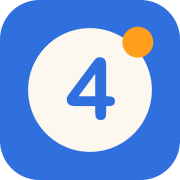
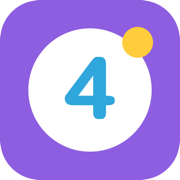
サイト全体の色ではやる気が出ないと子どもに言われたため、水色・むらさき・黄色をベースに、明るさと鮮やかさをそろえた配色に変えた
- 文のもんだいなどのメインのボタンはむらさき、たんごは水色、にがてノート・ホームへは黄色（字はこい茶色）
- 背景は水色からラベンダー、うすい黄色へのグラデーション
- 正解は緑のまま、まちがいはコーラルピンクにした
- アイコン（favicon・PWA・apple-touch-icon）とテーマカラーも同じ配色にした

diff --git a/src/index.css b/src/index.css
@@ -1,16 +1,24 @@
 :root {
-  --bg: #fdf8ef;
+  /* 水色・むらさき・黄色を同じくらいの明るさと鮮やかさにそろえる */
+  --bg: #f4f1ff;
   --card: #ffffff;
-  --text: #2b2b33;
-  --muted: #6b6b78;
-  --primary: #2f6fde;
-  --primary-dark: #1f55b3;
-  --secondary: #ff9f1c;
-  --good: #1f9d55;
-  --good-bg: #e6f6ec;
-  --bad: #d64545;
-  --bad-bg: #fdecec;
-  --border: #e6ded0;
+  --text: #2e2a45;
+  --muted: #6d6889;
+  --primary: #8e5ee0;
+  --primary-dark: #7246c4;
+  --primary-light: #efe8fd;
+  --sky: #2fa6dc;
+  --sky-dark: #1c88bb;
+  --sky-light: #e3f4fc;
+  --yellow: #ffcd3c;
+  --yellow-dark: #e0a800;
+  --yellow-text: #5a4300;
+  --secondary: var(--yellow);
+  --good: #1f9d6b;
+  --good-bg: #e2f6ee;
+  --bad: #e0567a;
+  --bad-bg: #ffedf2;
+  --border: #ddd6f3;
   --radius: 18px;
 
   font-family: 'Hiragino Maru Gothic ProN', 'BIZ UDPGothic', 'Meiryo', system-ui, sans-serif;
@@ -27,7 +35,8 @@
 body {
   margin: 0;
   min-height: 100vh;
-  background: var(--bg);
+  background: linear-gradient(160deg, #e6f5ff 0%, #f1ecff 50%, #fff7d9 100%) fixed;
+  background-color: var(--bg);
 }
 
 button {
@@ -59,25 +68,30 @@ button:disabled {
   font-size: 1.3rem;
   font-weight: bold;
   color: #fff;
-  box-shadow: 0 5px 0 rgba(0, 0, 0, 0.15);
+  box-shadow: 0 5px 0 var(--shadow, rgba(0, 0, 0, 0.15));
   transition: transform 0.08s, box-shadow 0.08s;
 }
 
 .big-button:active:not(:disabled) {
   transform: translateY(4px);
-  box-shadow: 0 1px 0 rgba(0, 0, 0, 0.15);
+  box-shadow: 0 1px 0 var(--shadow, rgba(0, 0, 0, 0.15));
 }
 
 .big-button.primary {
+  --shadow: var(--primary-dark);
   background: var(--primary);
 }
 
+/* 黄色は白い字だと読みにくいので、こい茶色の字にする */
 .big-button.secondary {
+  --shadow: var(--yellow-dark);
   background: var(--secondary);
+  color: var(--yellow-text);
 }
 
 .big-button:disabled {
-  background: #c9c4ba;
+  background: #cfcae0;
+  color: #fff;
   box-shadow: none;
 }
 
@@ -135,6 +149,7 @@ button:disabled {
 .accent {
   color: var(--primary);
   font-size: 1.3em;
+  text-shadow: 3px 3px 0 var(--yellow);
 }
 
 .stats {
@@ -155,7 +170,7 @@ button:disabled {
 .stat-value {
   font-size: 2rem;
   font-weight: bold;
-  color: var(--primary);
+  color: var(--sky-dark);
   font-variant-numeric: tabular-nums;
 }
 
@@ -213,7 +228,7 @@ button:disabled {
 
 .progress-fill {
   height: 100%;
-  background: var(--good);
+  background: linear-gradient(90deg, var(--sky), var(--primary));
   transition: width 0.3s;
 }
 
@@ -292,7 +307,8 @@ button:disabled {
 }
 
 .choice:hover:not(:disabled) {
-  border-color: var(--primary);
+  border-color: var(--sky);
+  background: var(--sky-light);
 }
 
 .choice:active:not(:disabled) {
@@ -307,8 +323,8 @@ button:disabled {
   height: 32px;
   flex-shrink: 0;
   border-radius: 50%;
-  background: var(--bg);
-  color: var(--muted);
+  background: var(--primary-light);
+  color: var(--primary);
   font-size: 1rem;
   font-weight: bold;
 }
@@ -454,8 +470,8 @@ button:disabled {
   font-size: 0.75rem;
   padding: 2px 10px;
   border-radius: 999px;
-  background: var(--bg);
-  color: var(--muted);
+  background: var(--sky-light);
+  color: var(--sky-dark);
 }
 
 .review-answer {
@@ -512,7 +528,8 @@ button:disabled {
 }
 
 .big-button.words {
-  background: var(--good);
+  --shadow: var(--sky-dark);
+  background: var(--sky);
 }
 
 .word-prompt {
@@ -541,7 +558,7 @@ button:disabled {
 
 .word-pair {
   font-size: 1.3rem;
-  color: var(--good);
+  color: var(--primary);
   font-weight: bold;
 }
 
@@ -614,7 +631,7 @@ button:disabled {
   gap: 8px;
   margin: 14px 0;
   padding: 14px 16px;
-  background: var(--bg);
+  background: var(--primary-light);
   border-radius: 12px;
 }
 

diff --git a/vite.config.ts b/vite.config.ts
@@ -16,8 +16,8 @@ export default defineConfig({
         short_name: 'えいけん4きゅう',
         description: '英検4級合格をめざす小学生向けの練習アプリ',
         lang: 'ja',
-        theme_color: '#2f6fde',
-        background_color: '#fdf8ef',
+        theme_color: '#8e5ee0',
+        background_color: '#f4f1ff',
         display: 'standalone',
         icons: [
           { src: 'pwa-192x192.png', sizes: '192x192', type: 'image/png' },

diff --git a/index.html b/index.html
@@ -4,7 +4,7 @@
     <meta charset="UTF-8" />
     <link rel="icon" type="image/svg+xml" href="/eiken/favicon.svg" />
     <link rel="apple-touch-icon" href="/eiken/apple-touch-icon.png" />
-    <meta name="theme-color" content="#2f6fde" />
+    <meta name="theme-color" content="#8e5ee0" />
     <meta name="viewport" content="width=device-width, initial-scale=1.0" />
     <title>えいけん4きゅう れんしゅう</title>
   </head>
